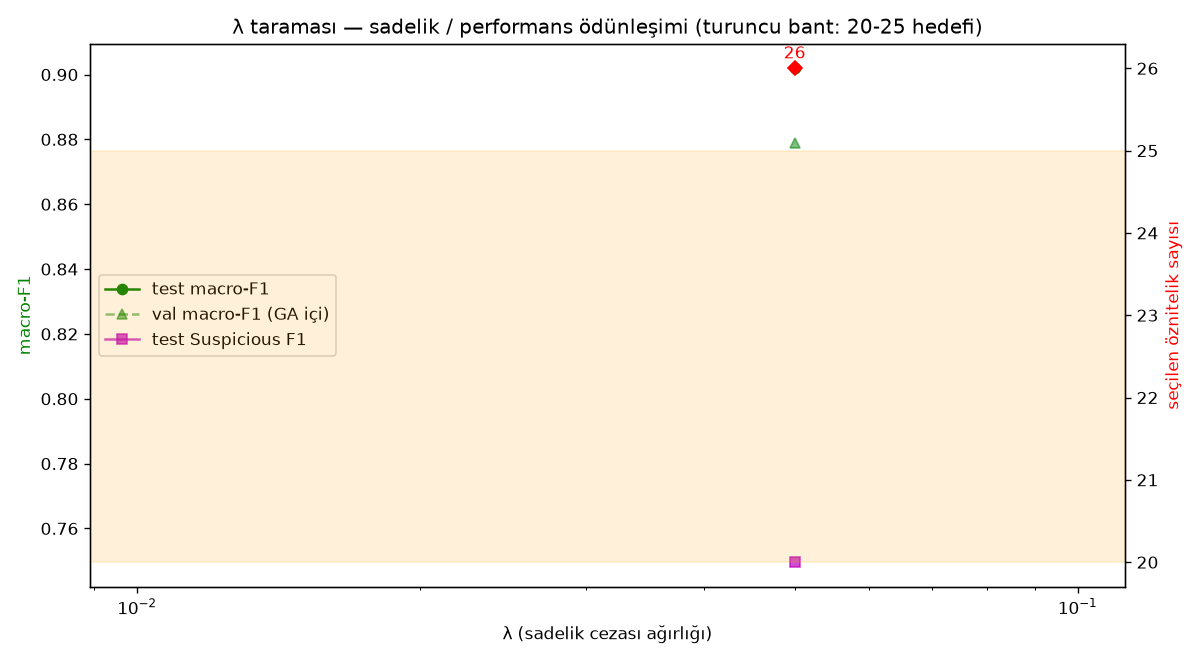
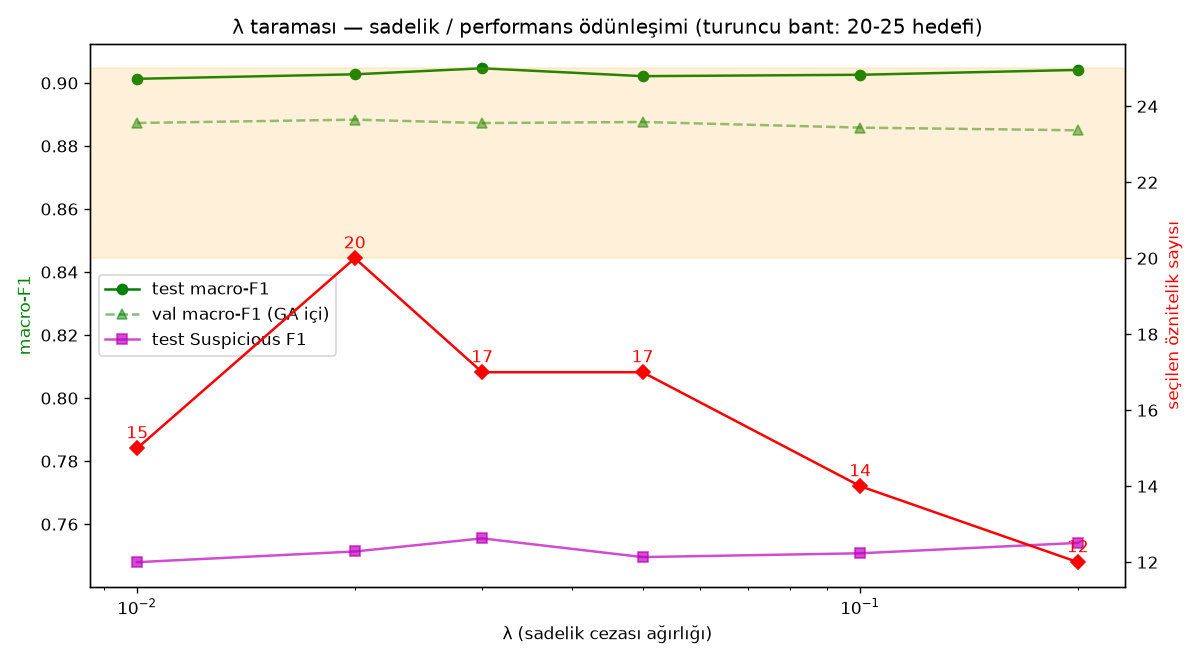
Adım 5b sonuçları: λ taraması
λ ∈ [0.01, 0.2] boyunca GA 12-20 öznitelikte kalıyor, test macro-F1 ~0.90
sabit. Veri ~15 özniteliğe sıkışıyor; 20-25 ek fayda getirmiyor.
λ=0.02 -> tam 20 öznitelik (mentör hedefi), test macro-F1 0.9027.
utils: gürültülü sklearn uyarısı susturuldu.

diff --git a/src/utils.py b/src/utils.py
@@ -6,8 +6,13 @@ from __future__ import annotations
 
 import json
 import sys
+import warnings
 from dataclasses import dataclass
 from pathlib import Path
+
+# sklearn'ün joblib bağlamında ürettiği "delayed should be used with Parallel"
+# uyarısı (davranışsal etkisi yok) log'ları boğuyordu — sustur.
+warnings.filterwarnings("ignore", message=".*delayed.*should be used with.*Parallel.*")
 
 # Windows konsolu (cp1254) Yunan harfi λ vb. karakterlerde çöküyor — UTF-8'e geç.
 for _stream in (sys.stdout, sys.stderr):
